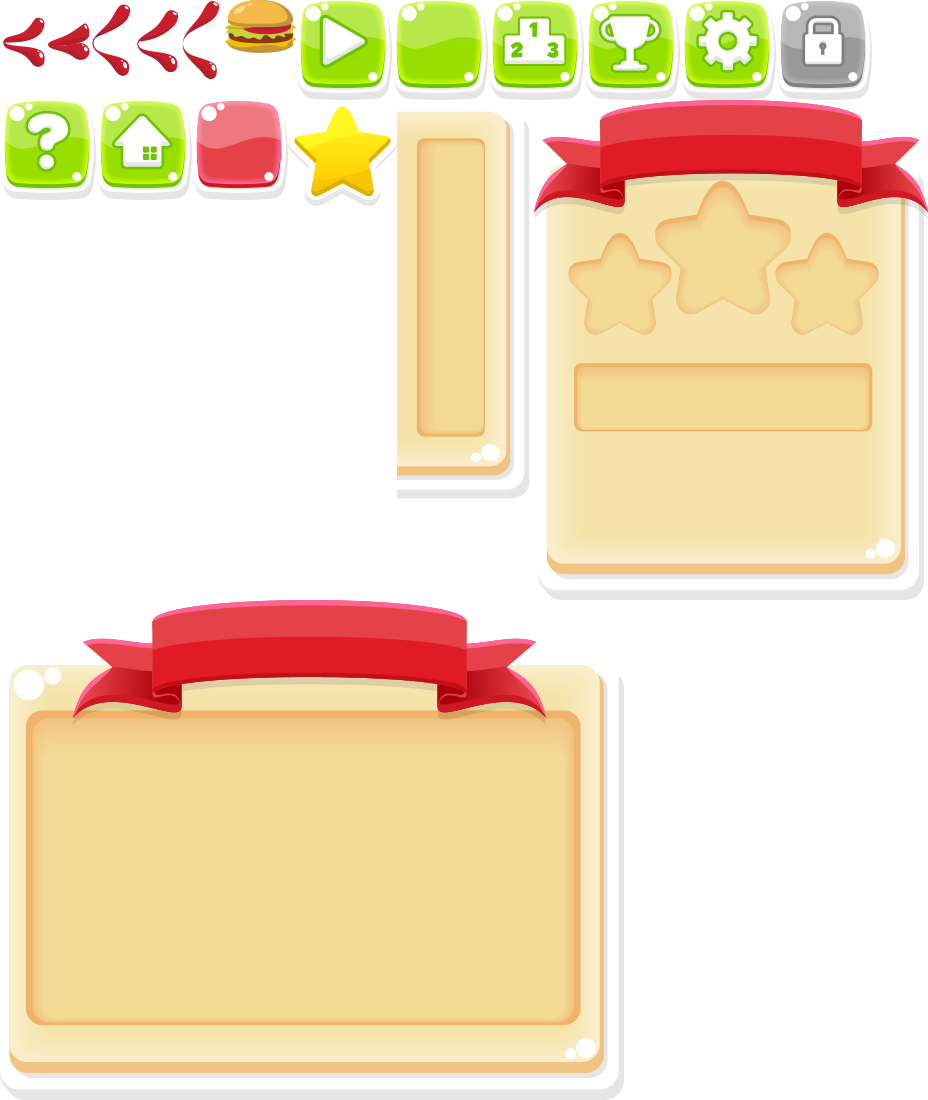
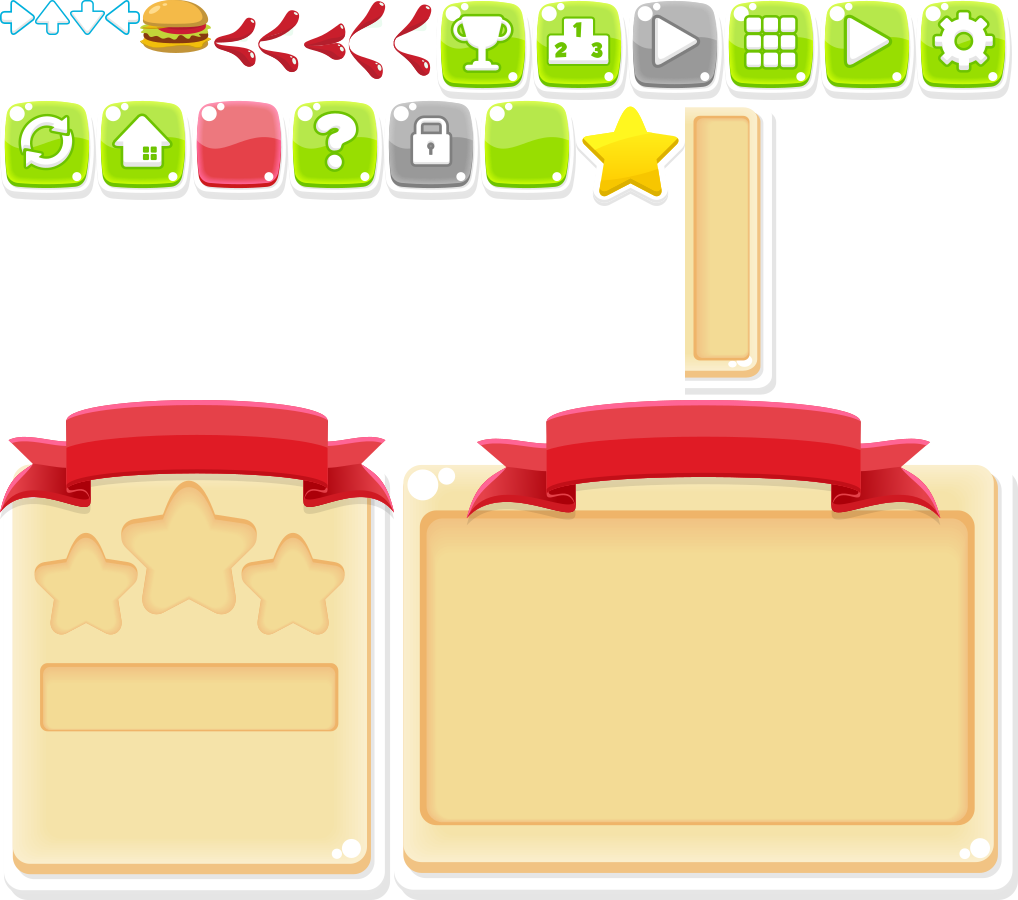
add level start and end

diff --git a/src/levelEndScene.js b/src/levelEndScene.js
@@ -1,0 +1,118 @@
+import Button from './button.js';
+
+/**
+ * Represent the level complete modal of the level scene.
+ *
+ * @export
+ * @class LevelEndScene
+ * @extends {Phaser.Scene}
+ */
+export default class LevelEndScene extends Phaser.Scene {
+  /**
+   * Creates an instance of LevelEndScene.
+   * @memberof LevelEndScene
+   */
+  constructor() {
+    super('LevelEndScene');
+  }
+
+  /**
+   * Creates the content of the LevelEndScene.
+   *
+   * @param {*} data
+   * @memberof LevelEndScene
+   */
+  create(data) {
+    const levelBg = this.add.image(0, 0, 'game', 'levelwindow');
+    const title = data.n > 3 ? 'Level complete' : 'Level failed';
+    const levelTitle = this.add.text(0, -210, title, {
+      fontSize: '50px',
+      fontFamily: 'font',
+    });
+    levelTitle.setOrigin(0.5);
+    levelTitle.setStroke('#911315', 6);
+    const star1 = this.add.image(0, 0, 'game', 'star');
+    star1.setScale(0);
+    const star2 = this.add.image(-102, 35, 'game', 'star');
+    star2.setScale(0);
+    const star3 = this.add.image(104, 35, 'game', 'star');
+    star3.setScale(0);
+    const stars = this.add.container(-8, -100, [star1, star2, star3]);
+    const burgerImage = this.add.image(0, 0, 'game', 'burger');
+    const burgerNumber = this.add.text(20, 10, 4, {
+      fontSize: '40px',
+      fontFamily: 'font',
+    });
+    burgerNumber.setOrigin(0.5);
+    burgerNumber.setStroke('#efb469', 4);
+    const burgerMax = this.add.text(0, -25, data.n + '/7', {
+      fontSize: '40px',
+      fontFamily: 'font',
+    });
+    burgerMax.setOrigin(0.5);
+    burgerMax.setStroke('#efb469', 4);
+    const burgerContent = [burgerImage, burgerNumber, burgerMax];
+    const burger = this.add.container(-8, 50, burgerContent);
+    let to = 'LevelScene';
+    const back = new Button(this, -102, 0, 'game', 'back', () =>
+      this.cameras.main.fadeOut(300),
+    );
+    back.disableInteractive();
+    const select = new Button(this, 0, 0, 'game', 'select', () => {
+      this.cameras.main.fadeOut(300);
+      to = 'SelectScene';
+    });
+    select.disableInteractive();
+    let next;
+    if (data.n > 3) {
+      next = new Button(this, 104, 0, 'game', 'next', () =>
+        this.cameras.main.fadeOut(300),
+      );
+      next.disableInteractive();
+    } else {
+      next = this.add.image(104, 0, 'game', 'stop');
+    }
+    const buttons = this.add.container(-8, 230, [back, select, next]);
+    const levelContent = [levelBg, levelTitle, stars, burger, buttons];
+    const levelModal = this.add.container(512, -500, levelContent);
+    this.tweens.timeline({
+      onComplete: () => {
+        back.setInteractive();
+        select.setInteractive();
+        next.setInteractive();
+      },
+      tweens: [{
+        targets: levelModal,
+        y: 270,
+        ease: 'Bounce',
+        duration: 600,
+      },
+      {
+        targets: star2,
+        scale: data.n > 3 ? 0.75 : 0,
+        ease: 'Quad',
+        duration: 70,
+      },
+      {
+        targets: star3,
+        scale: data.n > 5 ? 0.75 : 0,
+        ease: 'Quad',
+        duration: 70,
+      },
+      {
+        targets: star1,
+        scale: data.n === 7 ? 1 : 0,
+        ease: 'Quad',
+        duration: 70,
+      }],
+    });
+    this.cameras.main.once('camerafadeoutcomplete', () => {
+      this.scene.stop('LevelStartScene');
+      this.scene.stop('LevelEndScene');
+      this.scene.stop('LevelScene');
+      this.scene.start(to, {
+        level: 1,
+      });
+    });
+  }
+}

diff --git a/src/levelScene.js b/src/levelScene.js
@@ -21,7 +21,6 @@ export default class LevelScene extends Phaser.Scene {
    * @memberof LevelScene
    */
   create(data) {
-    this.cameras.main.fadeIn(100);
     this.add.tileSprite(1024, 200, 2048, 400, 'bg', 'layer7');
     this.add.tileSprite(512, 475, 1024, 150, 'bg', 'layer6');
     this.add.tileSprite(512, 475, 1024, 150, 'bg', 'layer5');
@@ -38,7 +37,7 @@ export default class LevelScene extends Phaser.Scene {
       yoyo: true,
       repeat: -1,
     });
-    const lips = this.physics.add.sprite(300, 250, 'game');
+    const lips = this.physics.add.sprite(200, 200, 'game');
     lips.play('lips');
     lips.setSize(40, 60);
     lips.setCollideWorldBounds(true);
@@ -47,7 +46,7 @@ export default class LevelScene extends Phaser.Scene {
       key: 'game',
       frame: 'burger',
       collideWorldBounds: true,
-      customBoundsRectangle: new Phaser.Geom.Rectangle(0, 0, 10000, 576),
+      customBoundsRectangle: new Phaser.Geom.Rectangle(-100, 0, 10000, 576),
       repeat: 6,
       setXY: {
         x: 1200,
@@ -65,10 +64,11 @@ export default class LevelScene extends Phaser.Scene {
       food.y += y * 50;
     });
     let burgerNumber = 4;
+    this.data.set('foods', 7);
     this.physics.add.overlap(lips, foods, (lips, food) => {
       food.disableBody(true, true);
       foods.killAndHide(food);
-      console.log(foods.countActive());
+      this.data.set('foods', foods.countActive());
       burgerNumber -= 1;
       const miniburger = this.add.image(food.x, food.y, 'game', 'burger');
       this.tweens.timeline({
@@ -106,6 +106,9 @@ export default class LevelScene extends Phaser.Scene {
     this.input.on('pointerup', () => {
       lips.setVelocityY(-600);
     });
+    this.input.keyboard.on('keyup', () => {
+      lips.setVelocityY(-600);
+    });
     const bg = this.add.image(0, 0, 'game', 'goalpanel').setOrigin(0);
     const burgerImage = this.add.image(0, 0, 'game', 'burger');
     burgerImage.setScale(0.75);
@@ -115,12 +118,30 @@ export default class LevelScene extends Phaser.Scene {
     });
     burgerText.setOrigin(0.5);
     burgerText.setStroke('#efb469', 3);
-    const burger = this.add.container(55, 70, [burgerImage, burgerText]);
-    const goalpanel = this.add.container(0, 0, [bg, burger]);
+    const burger = this.add.container(37, 40, [burgerImage, burgerText]);
+    this.add.container(0, 0, [bg, burger]);
     this.physics.world.on('worldbounds', (food) => {
       food.gameObject.disableBody(true, true);
       foods.killAndHide(food.gameObject);
-      console.log(foods.countActive());
+      this.data.set('foods', foods.countActive());
+    });
+    this.scene.run('LevelStartScene');
+    this.scene.pause();
+    lips.setVelocityY(-600);
+    this.data.events.on('changedata-foods', (parent, value) => {
+      if (value > 0) {
+        return;
+      }
+      this.data.events.off('changedata-foods');
+      this.time.addEvent({
+        delay: 800,
+        callback: () => {
+          this.scene.pause();
+          this.scene.run('LevelEndScene', {
+            n: 4 - burgerNumber,
+          });
+        },
+      });
     });
   }
 

diff --git a/src/levelStartScene.js b/src/levelStartScene.js
@@ -1,0 +1,72 @@
+/**
+ * Represent the level introduction modal of the level scene.
+ *
+ * @export
+ * @class LevelStartScene
+ * @extends {Phaser.Scene}
+ */
+export default class LevelStartScene extends Phaser.Scene {
+  /**
+   * Creates an instance of LevelStartScene.
+   * @memberof LevelStartScene
+   */
+  constructor() {
+    super('LevelStartScene');
+  }
+
+  /**
+   * Creates the content of the LevelStartScene.
+   *
+   * @memberof LevelStartScene
+   */
+  create() {
+    this.cameras.main.fadeIn(100);
+    const up = this.add.image(0, -90, 'game', 'up');
+    const tap =
+      this.add.text(0, 0, 'Tap on the screen\nor press any key\nrepeatedly', {
+        fontSize: '40px',
+        fontFamily: 'font',
+        align: 'center',
+      });
+    tap.setOrigin(0.5);
+    tap.setStroke('#00b0dc', 4);
+    const taptip = this.add.container(200, 350, [up, tap]);
+    const left = this.add.image(-35, 20, 'game', 'left');
+    const eat =
+      this.add.text(0, 0, 'Eat these', {
+        fontSize: '40px',
+        fontFamily: 'font',
+        align: 'center',
+      });
+    eat.setStroke('#00b0dc', 4);
+    const eattip = this.add.container(160, 20, [left, eat]);
+    const down = this.add.image(0, 50, 'game', 'down');
+    const avoid =
+      this.add.text(0, 0, 'Avoid this', {
+        fontSize: '40px',
+        fontFamily: 'font',
+        align: 'center',
+      });
+    avoid.setOrigin(0.5);
+    avoid.setStroke('#00b0dc', 4);
+    const avoidtip = this.add.container(700, 470, [down, avoid]);
+    this.input.on('pointerup', () => {
+      this.scene.resume('LevelScene');
+      this.tweens.add({
+        targets: [taptip, eattip, avoidtip],
+        alpha: 0,
+        duration: 100,
+        onComplete: () => this.scene.pause(),
+      });
+    });
+    this.input.keyboard.on('keyup', () => {
+      this.scene.resume('LevelScene');
+      this.tweens.add({
+        targets: [taptip, eattip, avoidtip],
+        alpha: 0,
+        duration: 100,
+        onComplete: () => this.scene.pause(),
+      });
+    });
+  }
+}

diff --git a/src/game.js b/src/game.js
@@ -2,7 +2,8 @@ import LoadScene from './loadScene.js';
 import HomeScene from './homeScene.js';
 import SelectScene from './selectScene.js';
 import LevelScene from './levelScene.js';
-// import EndScene from './endScene.js';
+import LevelStartScene from './levelStartScene.js';
+import LevelEndScene from './levelEndScene.js';
 // import ScoreScene from './scoreScene.js';
 // import CreditsScene from './creditsScene.js';
 
@@ -29,7 +30,8 @@ new Phaser.Game({
     HomeScene,
     SelectScene,
     LevelScene,
-    // EndScene,
+    LevelStartScene,
+    LevelEndScene,
     // ScoreScene,
     // CreditsScene,
   ],
